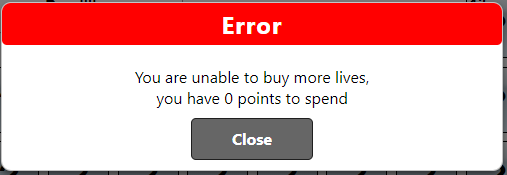
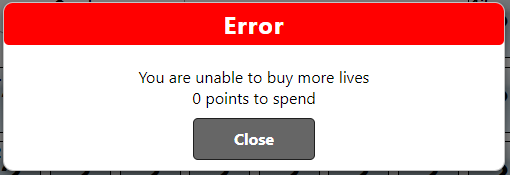
Error Lives Alert Text updated

diff --git a/assets/js/script.js b/assets/js/script.js
@@ -243,11 +243,11 @@ function moreLives () {
         document.getElementById("lives").innerText = ++currentLives;
     } else if (currentScore === 1) {
         alertBox("Error", `<br>
-                            You are unable to buy more lives,<br> you have only ${currentScore} point to spend
+                            You are unable to buy more lives<br> ${currentScore} point to spend
                             <br>`, "red");
     }  else {
         alertBox("Error", `<br>
-                            You are unable to buy more lives,<br> you have ${currentScore} points to spend
+                            You are unable to buy more lives<br> ${currentScore} points to spend
                             <br>`, "red");
     }
 }

diff --git a/README.md b/README.md
@@ -73,6 +73,8 @@ __The Buttons__
 
 ![Error Lives Alert](assets/images/readme/error_lives_alert.png)
 
+![Error Lives Alert 2](assets/images/readme/error_lives_alert_2.png)
+
 - __The New Game Alert__
 
   - Start a new game by requiring the user to enter there name.
